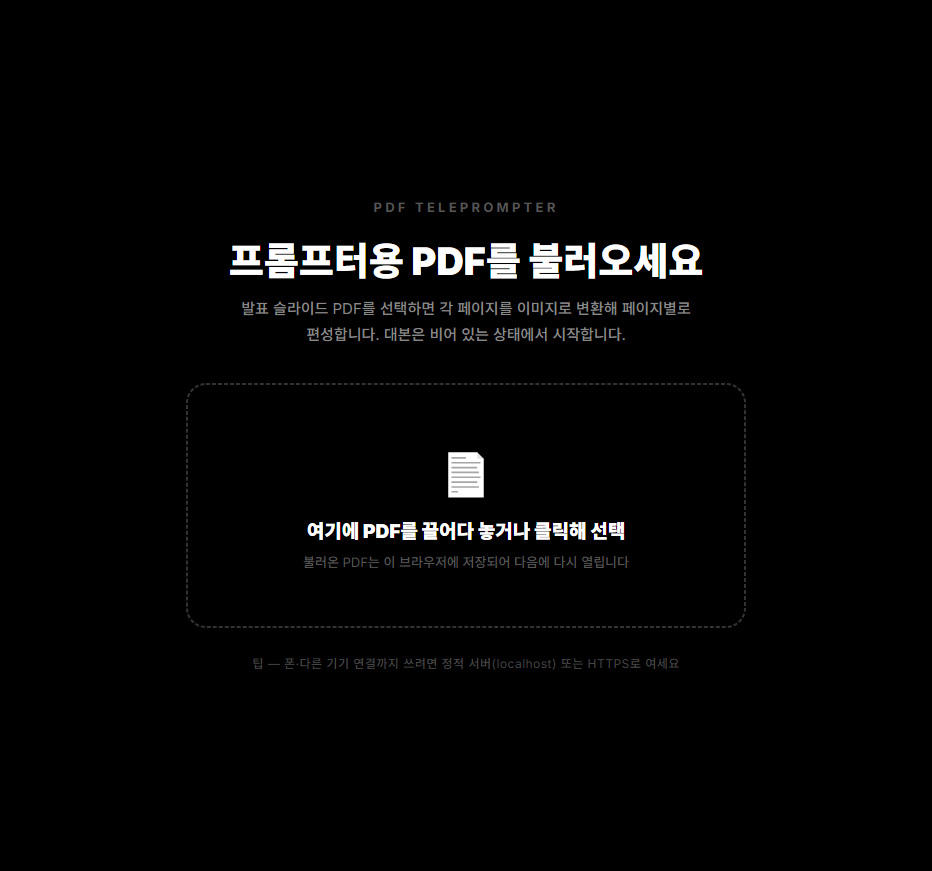
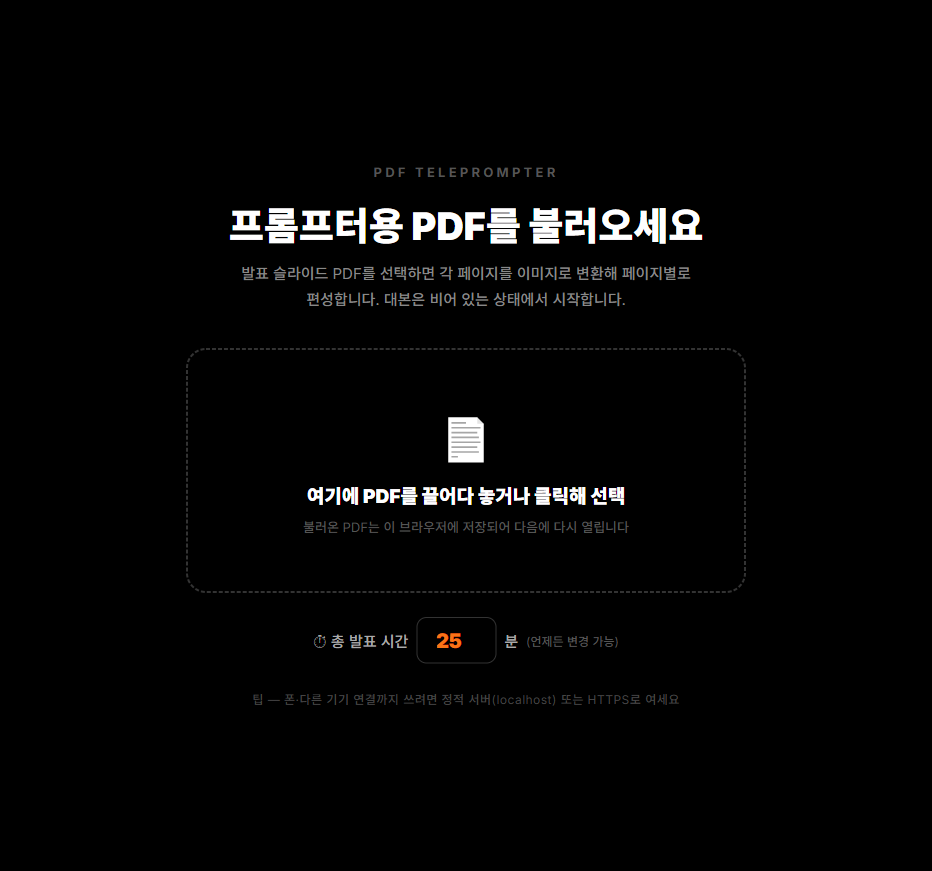
총 발표 시간 설정 기능 + 대본 일괄 입력 버튼 상단 이동
- 시작 화면과 타이머에서 총 발표 시간(분)을 발표자가 설정·저장(카운트다운 기준)
- '대본 일괄 입력'을 상단 바 PDF 교체 버튼 옆으로 이동(가시성↑)
- 편집 모드 2줄 툴바가 첫 줄 대본을 가리지 않도록 여백 조정
- README/스크린샷 갱신

Changed region(s): [[0.2489, 0.186, 0.7779, 0.403], [0.3112, 0.465, 0.6845, 0.651], [0.3112, 0.713, 0.7157, 0.806]]

diff --git a/prompter.html b/prompter.html
@@ -22,6 +22,7 @@
     <div class="dz-sub">불러온 PDF는 이 브라우저에 저장되어 다음에 다시 열립니다</div>
   </div>
   <input type="file" id="pdfFile" accept="application/pdf" style="display:none;">
+  <div class="total-set">⏱ 총 발표 시간 <input id="totalMinStart" type="number" min="1" max="600" value="18"> 분 <span class="rec-hint">(언제든 변경 가능)</span></div>
   <div class="s-hint">팁 — 폰·다른 기기 연결까지 쓰려면 정적 서버(localhost) 또는 HTTPS로 여세요</div>
 </div>
 
@@ -34,6 +35,7 @@
     <div class="status-tag" id="screenTag" title="감지된 디스플레이">화면 ?</div>
     <div class="status-tag" id="statusTag">STANDBY</div>
     <button class="btn" onclick="showStart()">📄 PDF 교체</button>
+    <button class="btn" onclick="openBulk()">⤵ 대본 일괄 입력</button>
     <button class="btn" id="remoteBtn" onclick="toggleRemote()">🔗 기기 연결</button>
     <button class="btn" id="coverBtn" onclick="coverShow()">가림 (Esc)</button>
     <button class="btn primary" id="deckBtn" onclick="toggleDeck()">프로젝터에 슬라이드 띄우기</button>
@@ -119,6 +121,7 @@
         <div class="bt-page">이 페이지 <b id="bt-pageElapsed">0</b>초</div>
         <div class="bt-elapsed" id="bt-total" title="총 경과">00:00</div>
       </div>
+      <div class="target-set">총 발표 시간 <input id="totalMin" type="number" min="1" max="600" value="18"> 분</div>
     </div>
     <div class="pace" id="paceBar"><i id="paceFill"></i></div>
     <div class="rec-set">이 페이지 권장 <input id="recInput" type="number" min="5" step="5" value="40"> 초 <span class="rec-hint">(발표자 설정·저장)</span></div>
@@ -133,7 +136,6 @@
 
     <div class="notes-tools">
       <button class="btn" onclick="toggleEdit()" id="editBtn">✎ 편집 (E)</button>
-      <button class="btn" onclick="openBulk()">⤵ 일괄 입력</button>
     </div>
     <div class="notes-tools">
       <button class="btn" onclick="Notes.exportJSON()">↓ 내보내기</button>
@@ -203,7 +205,16 @@ const CFG = window.PROMPTER_CONFIG;
 let currentSlide = 0, total = 0, recSec = 40, defaultRec = 40;
 let mediaPlaying = false, _pendingMp4 = null;
 let deckWin = null, editing = false;
-const TARGET_SEC = CFG.targetSec;
+let targetSec = (parseInt(localStorage.getItem('targetMin'),10) || Math.round(CFG.targetSec/60)) * 60;
+function setTotalMin(min){
+  min = Math.max(1, Math.min(600, parseInt(min,10) || 18));
+  targetSec = min * 60;
+  try{ localStorage.setItem('targetMin', String(min)); }catch(e){}
+  const a=document.getElementById('totalMin'), b=document.getElementById('totalMinStart');
+  if(a) a.value = min; if(b) b.value = min;
+  defaultRec = total ? Math.max(15, Math.round(targetSec/total)) : defaultRec;
+  if(!Notes.getTime(currentSlide)) recSec = defaultRec;   // 기본값 쓰는 페이지면 갱신
+}
 let slideEnteredAt = Date.now();
 let coverVisible = true, started = false, startTs = null, coverWasUp = false;
 
@@ -225,7 +236,7 @@ async function handlePdf(file){
 }
 function afterPdfLoaded(){
   document.getElementById('s-total').innerText = total || '–';
-  defaultRec = total ? Math.max(15, Math.round(TARGET_SEC/total)) : 40;
+  defaultRec = total ? Math.max(15, Math.round(targetSec/total)) : 40;
   document.getElementById('s-file').innerText = PdfRender.name() || '—';
   currentSlide = 0;
   goSlide(0);
@@ -363,7 +374,7 @@ function applyBulk(){
   if(n){ renderNote(); broadcast(); setTimeout(closeBulk, 900); }
 }
 async function copyLLMPrompt(){
-  const prompt = Notes.llmPrompt(total);
+  const prompt = Notes.llmPrompt(total, targetSec);
   try{ await navigator.clipboard.writeText(prompt); document.getElementById('bulkMsg').innerText='LLM 프롬프트를 복사했습니다. LLM에 붙여넣고 결과를 위 칸에 다시 붙여넣으세요.'; }
   catch(e){ document.getElementById('bulkText').value = prompt; document.getElementById('bulkMsg').innerText='클립보드 권한이 없어 입력칸에 넣었습니다. 복사해 사용하세요.'; }
 }
@@ -374,6 +385,10 @@ document.getElementById('recInput').addEventListener('change', ()=>{
   Notes.setTime(currentSlide, v > 0 ? v : 0);   // 0이면 기본값으로 복귀
   recSec = (v > 0) ? v : defaultRec;
 });
+
+/* ===== 총 발표 시간 설정 (시작 화면 + 타이머 양쪽) ===== */
+document.getElementById('totalMin').addEventListener('change', (e)=> setTotalMin(e.target.value));
+document.getElementById('totalMinStart').addEventListener('change', (e)=> setTotalMin(e.target.value));
 
 /* ===== 영상 (유튜브 / 로컬 mp4) ===== */
 function ytId(url){ const m = (url||'').match(/(?:youtu\.be\/|[?&]v=|\/embed\/|\/shorts\/)([A-Za-z0-9_-]{6,})/); return m ? m[1] : null; }
@@ -525,7 +540,7 @@ const host = Sync.createHost({
 
 function makeState(){
   const diff = startTs ? Math.floor((Date.now()-startTs)/1000) : 0;
-  const rem = TARGET_SEC - diff, ar = Math.abs(rem);
+  const rem = targetSec - diff, ar = Math.abs(rem);
   return { type:'state', idx:currentSlide, total,
     remain:`${rem<0?'-':''}${String(Math.floor(ar/60)).padStart(2,'0')}:${String(ar%60).padStart(2,'0')}`,
     over: rem<0, covered: coverVisible, note: Notes.get(currentSlide) };
@@ -569,7 +584,7 @@ setInterval(()=>{
   const diff = startTs ? Math.floor((Date.now()-startTs)/1000) : 0;
   document.getElementById('elapsed').innerText = fmtHMS(diff);
   document.getElementById('bt-total').innerText = fmtMS(diff);
-  const rem = TARGET_SEC - diff, ar = Math.abs(rem);
+  const rem = targetSec - diff, ar = Math.abs(rem);
   document.getElementById('bt-remain').innerText = `${rem<0?'-':''}${fmtMS(ar)}`;
   document.getElementById('bigTimer').classList.toggle('is-over', rem < 0);
 
@@ -602,6 +617,7 @@ function applyCover(){
 }
 async function init(){
   applyFont(); detectScreens(); applyCover();
+  setTotalMin(Math.round(targetSec/60));     // 저장된 총 발표 시간으로 입력칸 채움
   const ok = await PdfRender.loadStored();   // 저장된 PDF 있으면 자동 로드
   if(ok){
     total = PdfRender.pageCount();

diff --git a/css/app.css b/css/app.css
@@ -138,7 +138,7 @@ header { padding: 18px 36px; background: #000; display: flex; justify-content: s
 #toolbar .tb-done { margin-left: auto; background: var(--accent); color: #000; border-color: var(--accent); font-weight: 900; padding: 0 14px; }
 
 /* 편집 시 본문 위쪽 여백(툴바 자리) */
-#script-area.editing { cursor: default; padding: 70px 48px 36px; }
+#script-area.editing { cursor: default; padding: 124px 48px 36px; }   /* 2줄 툴바 높이만큼 확보 */
 .script-content { outline: none; }
 .script-content.is-empty::before { content: '이 페이지에 저장된 대본이 없습니다. 편집(E) 으로 입력하거나, 일괄 입력으로 한 번에 붙여넣으세요.'; color: var(--dim); font-size: 24px; font-weight: 400; }
 .script-content[contenteditable="true"] { font-size: 26px; line-height: 1.6; }
@@ -167,6 +167,17 @@ header { padding: 18px 36px; background: #000; display: flex; justify-content: s
 .rec-set input { width: 64px; background: #000; border: 1px solid var(--border); color: #fff; border-radius: 8px; padding: 6px 8px; font-size: 14px; font-weight: 800; font-family: inherit; text-align: center; font-variant-numeric: tabular-nums; }
 .rec-set input:focus { border-color: var(--accent); outline: none; }
 .rec-set .rec-hint { font-size: 10px; color: #444; }
+
+/* 큰 타이머 내 총 발표 시간 설정 */
+.target-set { margin-top: 14px; padding-top: 12px; border-top: 1px solid var(--border); font-size: 12px; color: var(--dim); display: flex; align-items: center; gap: 6px; }
+.target-set input { width: 64px; background: #000; border: 1px solid var(--border); color: var(--accent); border-radius: 8px; padding: 6px 8px; font-size: 15px; font-weight: 900; font-family: inherit; text-align: center; font-variant-numeric: tabular-nums; }
+.target-set input:focus { border-color: var(--accent); outline: none; }
+
+/* 시작 화면 총 발표 시간 */
+.total-set { margin-top: 24px; font-size: 15px; color: #aaa; display: flex; align-items: center; justify-content: center; gap: 8px; }
+.total-set input { width: 80px; background: #000; border: 1px solid #333; color: var(--accent); border-radius: 10px; padding: 10px; font-size: 20px; font-weight: 900; font-family: inherit; text-align: center; font-variant-numeric: tabular-nums; }
+.total-set input:focus { border-color: var(--accent); outline: none; }
+.total-set .rec-hint { font-size: 12px; color: #555; }
 
 /* ===== 영상 박스 (사이드바) ===== */
 .media-box { margin-top: 16px; border-top: 1px solid var(--border); padding-top: 14px; }

diff --git a/js/notes.js b/js/notes.js
@@ -137,8 +137,8 @@
   }
 
   /* ---------- LLM 프롬프트 생성 ---------- */
-  function llmPrompt(totalPages) {
-    const target = cfg.targetSec || 18 * 60;
+  function llmPrompt(totalPages, targetSec) {
+    const target = targetSec || cfg.targetSec || 18 * 60;
     const min = Math.floor(target / 60);
     const per = totalPages ? Math.round(target / totalPages) : 40;
     return [

diff --git a/README.md b/README.md
@@ -8,7 +8,7 @@
 
 ## 시작 화면 — PDF 불러오기
 
-처음 열면 PDF 입력 화면이 뜬다. 슬라이드 PDF를 드래그&드롭(또는 클릭 선택)하면 각 페이지를 이미지로 변환해 페이지별로 편성한다. 불러온 PDF는 이 브라우저에 저장되어 다음에 자동으로 다시 열린다.
+처음 열면 PDF 입력 화면이 뜬다. 슬라이드 PDF를 드래그&드롭(또는 클릭 선택)하면 각 페이지를 이미지로 변환해 페이지별로 편성한다. 불러온 PDF는 이 브라우저에 저장되어 다음에 자동으로 다시 열린다. 여기서 **총 발표 시간(분)**도 설정한다(이후 타이머 영역에서 언제든 변경 가능).
 
 ![시작 화면](docs/start.png)
 
@@ -46,12 +46,12 @@ python -m http.server 8080      # 또는 npx serve -l 8080 .
 ### 1. 대본 입력
 - **개별 편집** — `E` 또는 ✎ 편집 → 워드형 툴바로 서식 지정. 입력 즉시 자동 저장. 빈 페이지는 placeholder만.
 - **글자색** — 흰색(기본)·강조(amber)·빨강·파랑·초록 스와치 + 🎨 직접 선택. 흰색으로 되돌리기 가능.
-- **일괄 입력** — ⤵ 일괄 입력에서 전체 대본을 한 번에 붙여넣기. 페이지 구분 기호 `=== 1 ===` 아래에 그 페이지 대본. (`--- 페이지 2 ---`, `# 3` 도 인식. 강조 `**별표**`)
+- **일괄 입력** — 상단 바의 **⤵ 대본 일괄 입력**(PDF 교체 버튼 옆)에서 전체 대본을 한 번에 붙여넣기. 페이지 구분 기호 `=== 1 ===` 아래에 그 페이지 대본. (`--- 페이지 2 ---`, `# 3` 도 인식. 강조 `**별표**`)
 - **LLM 프롬프트** — 일괄 입력 창의 📋 버튼으로 장수·시간·형식 규칙이 담긴 프롬프트를 복사 → LLM에 주고 받은 결과를 그대로 붙여넣기.
 - **내보내기/가져오기** — 대본·시간·영상 설정을 JSON으로 백업/이동.
 
-### 2. 페이지별 권장시간 (발표자 설정)
-사이드바 **이 페이지 권장 [N] 초**에서 페이지마다 직접 설정·저장. 기본값은 총 발표시간÷장수. 일괄 입력에서 `=== 3 (60s) ===`로도 지정 가능. 큰 타이머에 남은 시간·페이지 경과·총 경과 표시.
+### 2. 총 발표 시간 · 페이지별 권장시간 (발표자 설정)
+**총 발표 시간**은 시작 화면과 타이머 영역의 **총 발표 시간 [N] 분**에서 설정(저장됨, 카운트다운 기준). 페이지별 권장시간은 사이드바 **이 페이지 권장 [N] 초**에서 페이지마다 직접 설정·저장. 기본값은 총 발표시간÷장수. 일괄 입력에서 `=== 3 (60s) ===`로도 지정 가능. 큰 타이머에 남은 시간·페이지 경과·총 경과 표시.
 
 ### 3. 페이지에 영상 삽입 (유튜브 / 로컬 mp4)
 🎬 영상 첨부로 페이지에 **유튜브 링크** 또는 **로컬 mp4**를 붙인다. 발표 중 **▶ 영상(또는 `V`키, 리모컨 버튼)** → 연단 슬라이드 위에 전체화면으로 재생, 페이지 이동·`Esc`로 닫으면 슬라이드 복귀.